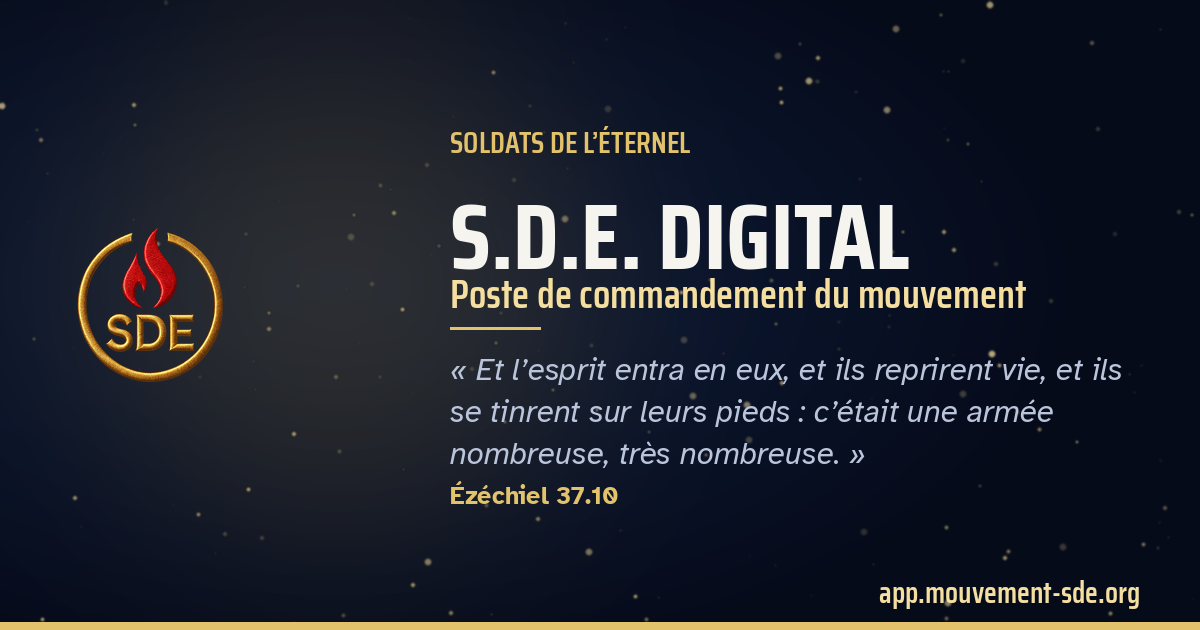
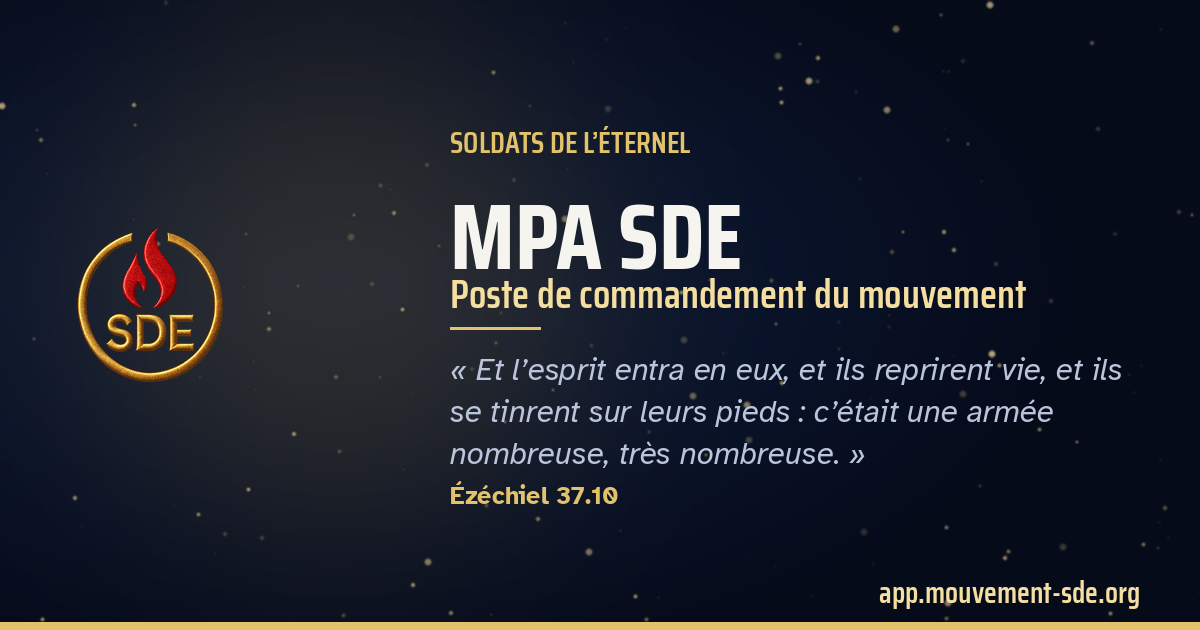
Nom de l'application : MPA SDE (au lieu de S.D.E. DIGITAL)
Titre, installation sur téléphone, vignette de partage, messages (codes d'activation, espace soldat), site vitrine et documentation.

Claude-Session: https://claude.ai/code/session_01QtEj7LbXvNQcxUdymFXxuX

Changed region(s): [[0.37, 0.3016, 0.7708, 0.4524]]

diff --git a/public/index.html b/public/index.html
@@ -2,7 +2,7 @@
 <html lang="fr">
 <meta charset="utf-8">
 <meta name="viewport" content="width=device-width,initial-scale=1,viewport-fit=cover">
-<title>S.D.E. DIGITAL</title>
+<title>MPA SDE</title>
 <link rel="manifest" href="/manifest.webmanifest">
 <meta name="theme-color" content="#0f1e3d">
 <meta name="description" content="Application de gestion du Mouvement Prophético-Apostolique Soldats de l’Éternel.">
@@ -13,7 +13,7 @@
 <meta property="og:site_name" content="Soldats de l’Éternel">
 <meta property="og:locale" content="fr_FR">
 <meta property="og:url" content="https://app.mouvement-sde.org/">
-<meta property="og:title" content="S.D.E. DIGITAL · Poste de commandement">
+<meta property="og:title" content="MPA SDE · Poste de commandement">
 <meta property="og:description" content="Agenda, annonces et espace soldat du Mouvement Prophético-Apostolique Soldats de l’Éternel.">
 <meta property="og:image" content="https://app.mouvement-sde.org/og-app.png">
 <meta property="og:image:width" content="1200">
@@ -22,7 +22,7 @@
 <meta name="twitter:card" content="summary_large_image">
 <meta name="robots" content="noindex">
 <style>.hdr-compte .hdr-ini{display:grid;place-items:center;width:28px;height:28px;border-radius:50%;background:#e2c26a;color:#1a1405;font-weight:700;font-size:.8rem} .gsi-w{min-height:48px;margin:14px 0} .banner-l{color:inherit;font-weight:700} .compte-h{margin-bottom:16px} .inp-sm{padding:4px 8px;min-height:36px;width:auto} .cnx-onglets{display:flex;gap:4px;padding:4px;border-radius:999px;background:var(--surface-2,rgba(127,127,127,.12));margin:0 0 16px} .cnx-o{flex:1;border:0;background:transparent;border-radius:999px;padding:10px 6px;font:inherit;font-weight:700;font-size:.9rem;color:inherit;cursor:pointer;min-height:44px} .cnx-o.on{background:#0f1e3d;color:#fff} .cnx-voir{margin:-4px 0 6px} .esp-compte{margin-bottom:12px} .esp-ou{margin:14px 0 8px} .cpt-fiche{margin-top:6px;max-width:100%} .cpt-row .row-main{min-width:0} .cpt-code{margin-bottom:14px} .med-outils{display:flex;flex-wrap:wrap;gap:8px;margin:0 0 14px} .med-outils .inp{flex:1 1 200px;width:auto} .med-grille{display:grid;gap:12px;grid-template-columns:repeat(auto-fill,minmax(min(100%,210px),1fr))} @media (max-width:600px){.med-grille{grid-template-columns:repeat(2,minmax(0,1fr));gap:10px} .med-t{font-size:14px} .med-type{font-size:10px}} .med-carte{display:flex;flex-direction:column;gap:4px;text-align:left;padding:0 0 12px;border:1px solid var(--line);border-radius:12px;background:var(--surface);color:var(--ink);font:inherit;cursor:pointer;overflow:hidden;min-width:0} .med-carte:hover{border-color:var(--line-strong);box-shadow:var(--shadow)} .med-carte .chip{align-self:flex-start;margin:4px 12px 0} .med-vis{position:relative;display:grid;place-items:center;aspect-ratio:16/10;background:var(--surface-2);overflow:hidden} .med-vis img{width:100%;height:100%;object-fit:cover} .med-ico{display:grid;place-items:center;gap:4px;color:var(--muted)} .med-ico svg{width:38px;height:38px} .med-ico b{font-size:12px;letter-spacing:.08em;text-transform:uppercase} .g-video .med-vis{background:#1b2f5b} .g-audio .med-vis{background:#3a2a5c} .g-pdf .med-vis{background:#fbe5e1} .g-word .med-vis{background:#e2ebfa} .g-powerpoint .med-vis{background:#fbe8dc} .g-excel .med-vis{background:#e0f1e6} .g-video .med-ico,.g-audio .med-ico{color:#e2c26a} .g-pdf .med-ico{color:#b42318} .g-word .med-ico{color:#1f5bb5} .g-powerpoint .med-ico{color:#c0562a} .g-excel .med-ico{color:#23704d} .med-play{position:absolute;inset:auto auto 10px 10px;width:38px;height:38px;border-radius:50%;display:grid;place-items:center;background:rgba(0,0,0,.6);color:#fff} .med-play svg{width:18px;height:18px} .med-type{position:absolute;top:8px;right:8px;font-size:11px;font-weight:700;letter-spacing:.06em;text-transform:uppercase;background:rgba(0,0,0,.6);color:#fff;border-radius:6px;padding:2px 7px} .med-t{padding:8px 12px 0;font-weight:700;line-height:1.3;display:-webkit-box;-webkit-line-clamp:2;-webkit-box-orient:vertical;overflow:hidden} .med-m{padding:0 12px;font-size:12.5px;color:var(--muted)} .med-lecteur{width:100%;max-height:70vh;border-radius:10px;background:#000} .med-photo{display:block;max-width:100%;max-height:72vh;margin:0 auto;border-radius:10px} .med-pdf{width:100%;height:70vh;border:1px solid var(--line);border-radius:10px;background:#fff} .med-audio{display:grid;gap:12px;justify-items:center;padding:12px;background:var(--surface-2);border-radius:12px} .med-audio img{max-width:240px;border-radius:10px} .med-audio audio{width:100%} .med-doc{display:flex;gap:16px;align-items:center;padding:16px;background:var(--surface-2);border-radius:12px} .med-doc .med-ico{width:84px;height:84px;border-radius:12px;background:var(--surface)} .med-desc{margin:12px 0 4px;white-space:normal} .med-nav{justify-content:center;align-items:center;margin-top:10px} .med-espace{margin-top:16px} .meter{height:8px;border-radius:999px;background:var(--track);overflow:hidden;margin-bottom:6px} .meter i{display:block;height:100%;background:var(--meter)} .med-depot{display:grid;justify-items:center;gap:6px;text-align:center;padding:22px 16px;border:2px dashed var(--line-strong);border-radius:12px;cursor:pointer;background:var(--surface-2)} .med-depot svg{width:30px;height:30px} .med-choix{display:grid;gap:8px;margin:12px 0} .med-ligne{display:flex;gap:10px;align-items:flex-start;padding:10px;border:1px solid var(--line);border-radius:10px} .med-ligne.ko{opacity:.7;border-color:var(--danger)} .med-ligne-i svg{width:22px;height:22px;color:var(--muted)} .med-ligne-c{display:grid;gap:4px;flex:1;min-width:0} .med-ligne-c .inp{width:100%} .med-ligne-c small{color:var(--muted);overflow-wrap:anywhere} .med-barre{height:6px;border-radius:999px;background:var(--track);overflow:hidden} .med-barre i{display:block;height:100%;width:0;background:var(--ok);transition:width .3s} .ko{color:var(--danger)}</style>
-<script>/* Pont S.D.E. DIGITAL : fournit à l'application la même interface que dans Claude
+<script>/* Pont MPA SDE : fournit à l'application la même interface que dans Claude
    (window.claude.use("db" | "user" | "downloads" | "assets")), branchée sur le serveur Cloudflare. */
 (function () {
   "use strict";
@@ -7206,10 +7206,10 @@ ${mbs.length ? `<h2>Annuaire des soldats (${mbs.length})</h2><input type="search
     const etape = (n, t) => `<li><span class="inst-n">${n}</span><span>${t}</span></li>`;
     const bloc = (titre, pas, actif) => `<section class="inst-b${actif ? " on" : ""}"><h3 class="h3">${titre}${actif ? ` <span class="chip ok">Votre appareil</span>` : ""}</h3><ol class="inst-l">${pas.map((p, i) => etape(i + 1, p)).join("")}</ol></section>`;
     const lien = lienApp();
-    return `<p class="hint" style="margin-top:0">S.D.E. DIGITAL s’installe comme une application : une icône sur l’écran d’accueil ouvre directement l’application, sans chercher le lien.</p>
-      <div class="inst-lien"><input class="inp" id="lien-app" readonly value="${esc(lien)}" aria-label="Lien de l’application"><button class="btn btn-sm btn-primary" type="button" data-act="copier" data-cible="lien-app">${I("i-copy")}Copier le lien</button><a class="btn btn-sm btn-ghost" href="${esc(lienWa("", "Voici le lien de l’application S.D.E. DIGITAL : " + lien))}" target="_blank" rel="noopener">${I("i-msg")}Partager</a></div>
+    return `<p class="hint" style="margin-top:0">MPA SDE s’installe comme une application : une icône sur l’écran d’accueil ouvre directement l’application, sans chercher le lien.</p>
+      <div class="inst-lien"><input class="inp" id="lien-app" readonly value="${esc(lien)}" aria-label="Lien de l’application"><button class="btn btn-sm btn-primary" type="button" data-act="copier" data-cible="lien-app">${I("i-copy")}Copier le lien</button><a class="btn btn-sm btn-ghost" href="${esc(lienWa("", "Voici le lien de l’application MPA SDE : " + lien))}" target="_blank" rel="noopener">${I("i-msg")}Partager</a></div>
       ${invite ? `<div class="btn-row" style="margin:10px 0">${btn("installer-pwa", "Installer maintenant", { ico: "i-down", cls: "btn-primary" })}</div>` : ""}
-      ${bloc("Android (Chrome)", ["Ouvrez le lien de l’application dans <b>Chrome</b>.", "Touchez le menu <b>⋮</b> en haut à droite.", "Choisissez <b>Installer l’application</b> (ou <b>Ajouter à l’écran d’accueil</b>), puis <b>Ajouter</b>.", "L’icône apparaît sur l’écran d’accueil : un appui suffit pour ouvrir S.D.E. DIGITAL."], android)}
+      ${bloc("Android (Chrome)", ["Ouvrez le lien de l’application dans <b>Chrome</b>.", "Touchez le menu <b>⋮</b> en haut à droite.", "Choisissez <b>Installer l’application</b> (ou <b>Ajouter à l’écran d’accueil</b>), puis <b>Ajouter</b>.", "L’icône apparaît sur l’écran d’accueil : un appui suffit pour ouvrir MPA SDE."], android)}
       ${bloc("iPhone et iPad (Safari)", ["Ouvrez le lien dans <b>Safari</b>.", "Touchez le bouton <b>Partager</b> (carré avec une flèche vers le haut).", "Faites défiler et choisissez <b>Sur l’écran d’accueil</b>, puis <b>Ajouter</b>."], ios)}
       ${bloc("Ordinateur (Chrome ou Edge)", ["Ouvrez le lien de l’application.", "Cliquez sur l’icône d’installation dans la barre d’adresse, ou menu <b>⋮</b> › <b>Caster, enregistrer et partager</b> › <b>Créer un raccourci</b> (cochez « Ouvrir dans une fenêtre »)."], !ios && !android)}
       <h3 class="h3" style="margin-top:16px">Sans réseau</h3>
@@ -7405,7 +7405,7 @@ ${mbs.length ? `<h2>Annuaire des soldats (${mbs.length})</h2><input type="search
     if (ok) { dernier.sheet = null; render(); }
   }
   function messageCode(m, code) {
-    return `Shalom ${prenomUsuel(m)} !\n\nVoici ton accès personnel à l’Espace soldat de S.D.E. DIGITAL : ta carte de membre, tes présences, tes cotisations, et un bouton pour déposer une requête de prière.\n\n1. Ouvre : ${lienApp()}\n2. Touche « Mon espace »\n3. Saisis ton code : ${code}\n\nGarde ce code pour toi : il ouvre ton espace.\n— ${cfg().nomCourt}`;
+    return `Shalom ${prenomUsuel(m)} !\n\nVoici ton accès personnel à l’Espace soldat de MPA SDE : ta carte de membre, tes présences, tes cotisations, et un bouton pour déposer une requête de prière.\n\n1. Ouvre : ${lienApp()}\n2. Touche « Mon espace »\n3. Saisis ton code : ${code}\n\nGarde ce code pour toi : il ouvre ton espace.\n— ${cfg().nomCourt}`;
   }
   /* Bloc dans la fiche du membre (direction) */
   function blocEspaceMembre(m) {
@@ -7458,7 +7458,7 @@ ${mbs.length ? `<h2>Annuaire des soldats (${mbs.length})</h2><input type="search
     return `<section class="card esp-entree"><div class="esp-entree-i" aria-hidden="true">${I("i-card")}</div><h2 class="h3">Ouvrir mon espace</h2><p class="hint">Saisissez le code personnel reçu du secrétariat. Votre espace s’ouvrira ensuite directement sur cet appareil.</p>
       <form class="form esp-form" id="f-esp" novalidate><label class="sr" for="esp-code">Code personnel</label><input class="inp esp-inp" id="esp-code" name="code" autocomplete="off" autocapitalize="characters" spellcheck="false" placeholder="K7PM-Q2XD" maxlength="14" inputmode="text"><button class="btn btn-primary" type="submit">${I("i-right")}Ouvrir</button></form>
       ${ESP.err ? `<p class="note danger" role="alert">${esc(ESP.err)}</p>` : ""}
-      ${tel ? `<p class="hint" style="margin-top:12px">Pas encore de code ? <a class="link" href="${esc(lienWa(tel, "Shalom ! Je souhaite recevoir mon code d’accès à l’Espace soldat S.D.E. DIGITAL. Nom et prénoms : "))}" target="_blank" rel="noopener">Le demander par WhatsApp</a></p>` : ""}</section>`;
+      ${tel ? `<p class="hint" style="margin-top:12px">Pas encore de code ? <a class="link" href="${esc(lienWa(tel, "Shalom ! Je souhaite recevoir mon code d’accès à l’Espace soldat MPA SDE. Nom et prénoms : "))}" target="_blank" rel="noopener">Le demander par WhatsApp</a></p>` : ""}</section>`;
   }
   const ETAT_PRES = { P: ["Présent", "ok"], R: ["En retard", "warn"], E: ["Excusé", "info"], A: ["Absent", "danger"] };
   function espaceSoldat(d) {
@@ -8318,7 +8318,7 @@ ${mbs.length ? `<h2>Annuaire des soldats (${mbs.length})</h2><input type="search
     const email = champ("cx-email", "Adresse e-mail", inp("cx-email", "email", CNX.email, 'type="email" autocomplete="email" inputmode="email" autocapitalize="off" spellcheck="false" required' + (m !== "inscription" ? " autofocus" : "")), { req: true });
     let corps;
     if (m === "connexion") corps = `${email}${champMdp("cx-mdp", "Mot de passe", "current-password")}${voirMdp}
-      <p class="hint">Mot de passe oublié ? Un responsable vous donne un code pour en choisir un nouveau, à saisir dans « J’ai un code ».${telContact() ? ` <a class="link" href="${esc(lienWa(telContact(), "Shalom ! J’ai oublié mon mot de passe S.D.E. DIGITAL. Mon adresse e-mail : "))}" target="_blank" rel="noopener">Le demander par WhatsApp</a>` : ""}</p>${pied("Se connecter")}`;
+      <p class="hint">Mot de passe oublié ? Un responsable vous donne un code pour en choisir un nouveau, à saisir dans « J’ai un code ».${telContact() ? ` <a class="link" href="${esc(lienWa(telContact(), "Shalom ! J’ai oublié mon mot de passe MPA SDE. Mon adresse e-mail : "))}" target="_blank" rel="noopener">Le demander par WhatsApp</a>` : ""}</p>${pied("Se connecter")}`;
     else if (m === "inscription") corps = `<p class="hint" style="margin-top:0">Votre compte s’ouvre aussitôt et vous recevez votre <b>matricule à 6 chiffres</b>, votre carte de membre et votre espace soldat.</p>
       <div class="f2">${champ("ci-prenoms", "Prénoms", inp("ci-prenoms", "prenoms", "", 'autocomplete="given-name" required autofocus maxlength="80"'), { req: true })}${champ("ci-nom", "Nom", inp("ci-nom", "nom", "", 'autocomplete="family-name" required maxlength="80"'), { req: true })}</div>
       ${champ("ci-tel", "Téléphone (WhatsApp)", inp("ci-tel", "telephone", "", 'type="tel" autocomplete="tel" inputmode="tel" maxlength="30" placeholder="07 00 00 00 00"'))}
@@ -8476,7 +8476,7 @@ ${mbs.length ? `<h2>Annuaire des soldats (${mbs.length})</h2><input type="search
     dernier.sheet = null; render();
   }
   function messageActivation(c) {
-    return `Shalom${c.nom ? " " + c.nom.split(/\s+/)[0] : ""} !\n\nTon accès à S.D.E. DIGITAL est prêt.\n1. Ouvre ${URL_APP_H}\n2. Touche le cadenas, puis « J’ai un code »\n3. Saisis ton adresse ${c.email}, le code ${c.code} et choisis ton mot de passe.\n\nLe code est valable 14 jours et ne sert qu’une fois.\n— ${cfg().nomCourt}`;
+    return `Shalom${c.nom ? " " + c.nom.split(/\s+/)[0] : ""} !\n\nTon accès à MPA SDE est prêt.\n1. Ouvre ${URL_APP_H}\n2. Touche le cadenas, puis « J’ai un code »\n3. Saisis ton adresse ${c.email}, le code ${c.code} et choisis ton mot de passe.\n\nLe code est valable 14 jours et ne sert qu’une fois.\n— ${cfg().nomCourt}`;
   }
   function ficheComptes() {
     const m = moiH();

diff --git a/src/worker.js b/src/worker.js
@@ -1,4 +1,4 @@
-/* S.D.E. DIGITAL — serveur Cloudflare (Worker)
+/* MPA SDE — serveur Cloudflare (Worker)
    Sert l'application, garde les données dans D1, les fichiers dans KV,
    et reconnaît chacun par son adresse e-mail et son mot de passe.
    Les règles d'accès reprennent exactement celles de la version Claude. */
@@ -490,7 +490,7 @@ async function apiIA(req, env, u) {
     model: rapide ? (env.IA_MODELE_RAPIDE || "claude-haiku-5-5") : (env.IA_MODELE || "claude-sonnet-5-5"),
     max_tokens: rapide ? 2000 : 4096,
     stream: true,
-    system: "Tu es Éliézer, l’assistant de l’application S.D.E. DIGITAL du Mouvement Prophético-Apostolique Soldats de l’Éternel. Suis les consignes données dans la conversation.",
+    system: "Tu es Éliézer, l’assistant de l’application MPA SDE du Mouvement Prophético-Apostolique Soldats de l’Éternel. Suis les consignes données dans la conversation.",
     messages,
     ...(outils.length ? { tools: outils } : {}),
   };
@@ -611,7 +611,7 @@ async function servirMedia(req, env, u, id) {
   if (!ID_MEDIA.test(id || "")) return new Response("Introuvable", { status: 404 });
   const m = await env.DB.prepare("SELECT * FROM medias WHERE id = ? AND fini = 1").bind(id).first();
   if (!m) return new Response("Ce média n’existe plus.", { status: 404, headers: { "content-type": "text/plain; charset=utf-8" } });
-  if (!mediaVisible(u, m)) return new Response("Connectez-vous à S.D.E. DIGITAL pour ouvrir ce média.", { status: 403, headers: { "content-type": "text/plain; charset=utf-8" } });
+  if (!mediaVisible(u, m)) return new Response("Connectez-vous à MPA SDE pour ouvrir ce média.", { status: 403, headers: { "content-type": "text/plain; charset=utf-8" } });
   let debut = 0, fin = m.taille - 1, partiel = false;
   const r = /^bytes=(\d*)-(\d*)$/.exec(req.headers.get("range") || "");
   if (r && (r[1] !== "" || r[2] !== "")) {
@@ -656,7 +656,7 @@ async function sauvegarder(env) {
   const comptes = (await env.DB.prepare("SELECT email, id, nom, role, cree, derniere, membreId, matricule FROM comptes").all()).results || [];
   const medias = (await env.DB.prepare("SELECT id, titre, description, categorie, genre, nom, mime, taille, stockage, visibilite, auteur, auteurNom, cree FROM medias WHERE fini = 1").all()).results || [];
   const jour = new Date().toISOString().slice(0, 10);
-  const corps = JSON.stringify({ version: 1, date: jour, application: "S.D.E. DIGITAL", docs: Object.fromEntries(docs.map((d) => [d.path, JSON.parse(d.data)])), comptes, medias });
+  const corps = JSON.stringify({ version: 1, date: jour, application: "MPA SDE", docs: Object.fromEntries(docs.map((d) => [d.path, JSON.parse(d.data)])), comptes, medias });
   await env.FICHIERS.put("sauvegarde:" + jour, corps, { expirationTtl: 35 * 86400, metadata: { type: "application/json", taille: corps.length, documents: docs.length, comptes: comptes.length, faite: Date.now() } });
   return { jour, documents: docs.length, taille: corps.length };
 }

diff --git a/app/m9_heberge.js b/app/m9_heberge.js
@@ -15,7 +15,7 @@
     const email = champ("cx-email", "Adresse e-mail", inp("cx-email", "email", CNX.email, 'type="email" autocomplete="email" inputmode="email" autocapitalize="off" spellcheck="false" required' + (m !== "inscription" ? " autofocus" : "")), { req: true });
     let corps;
     if (m === "connexion") corps = `${email}${champMdp("cx-mdp", "Mot de passe", "current-password")}${voirMdp}
-      <p class="hint">Mot de passe oublié ? Un responsable vous donne un code pour en choisir un nouveau, à saisir dans « J’ai un code ».${telContact() ? ` <a class="link" href="${esc(lienWa(telContact(), "Shalom ! J’ai oublié mon mot de passe S.D.E. DIGITAL. Mon adresse e-mail : "))}" target="_blank" rel="noopener">Le demander par WhatsApp</a>` : ""}</p>${pied("Se connecter")}`;
+      <p class="hint">Mot de passe oublié ? Un responsable vous donne un code pour en choisir un nouveau, à saisir dans « J’ai un code ».${telContact() ? ` <a class="link" href="${esc(lienWa(telContact(), "Shalom ! J’ai oublié mon mot de passe MPA SDE. Mon adresse e-mail : "))}" target="_blank" rel="noopener">Le demander par WhatsApp</a>` : ""}</p>${pied("Se connecter")}`;
     else if (m === "inscription") corps = `<p class="hint" style="margin-top:0">Votre compte s’ouvre aussitôt et vous recevez votre <b>matricule à 6 chiffres</b>, votre carte de membre et votre espace soldat.</p>
       <div class="f2">${champ("ci-prenoms", "Prénoms", inp("ci-prenoms", "prenoms", "", 'autocomplete="given-name" required autofocus maxlength="80"'), { req: true })}${champ("ci-nom", "Nom", inp("ci-nom", "nom", "", 'autocomplete="family-name" required maxlength="80"'), { req: true })}</div>
       ${champ("ci-tel", "Téléphone (WhatsApp)", inp("ci-tel", "telephone", "", 'type="tel" autocomplete="tel" inputmode="tel" maxlength="30" placeholder="07 00 00 00 00"'))}
@@ -173,7 +173,7 @@
     dernier.sheet = null; render();
   }
   function messageActivation(c) {
-    return `Shalom${c.nom ? " " + c.nom.split(/\s+/)[0] : ""} !\n\nTon accès à S.D.E. DIGITAL est prêt.\n1. Ouvre ${URL_APP_H}\n2. Touche le cadenas, puis « J’ai un code »\n3. Saisis ton adresse ${c.email}, le code ${c.code} et choisis ton mot de passe.\n\nLe code est valable 14 jours et ne sert qu’une fois.\n— ${cfg().nomCourt}`;
+    return `Shalom${c.nom ? " " + c.nom.split(/\s+/)[0] : ""} !\n\nTon accès à MPA SDE est prêt.\n1. Ouvre ${URL_APP_H}\n2. Touche le cadenas, puis « J’ai un code »\n3. Saisis ton adresse ${c.email}, le code ${c.code} et choisis ton mot de passe.\n\nLe code est valable 14 jours et ne sert qu’une fois.\n— ${cfg().nomCourt}`;
   }
   function ficheComptes() {
     const m = moiH();

diff --git a/public/vitrine/index.html b/public/vitrine/index.html
@@ -627,7 +627,7 @@ button.b-contour { background: transparent; }
       <div class="tete-section">
         <p class="surtitre">Espace membre</p>
         <h2 id="titre-membres">Votre espace soldat</h2>
-        <p class="chapo">Votre espace se trouve dans S.D.E. DIGITAL, l’application du mouvement. Créez votre compte avec votre adresse e-mail et un mot de passe : votre matricule à 6 chiffres vous est attribué aussitôt, sans attente.</p>
+        <p class="chapo">Votre espace se trouve dans MPA SDE, l’application du mouvement. Créez votre compte avec votre adresse e-mail et un mot de passe : votre matricule à 6 chiffres vous est attribué aussitôt, sans attente.</p>
       </div>
       <div class="acces">
         <div class="carte-acces">
@@ -806,7 +806,7 @@ button.b-contour { background: transparent; }
   const RDV = { infire: INFIRE };
   document.addEventListener("click", (ev) => { const b = ev.target.closest("[data-ics]"); if (b && RDV[b.dataset.ics]) ics(RDV[b.dataset.ics]); });
 
-  /* Agenda public, lu en direct dans S.D.E. DIGITAL */
+  /* Agenda public, lu en direct dans MPA SDE */
   const MOIS = ["janv.", "févr.", "mars", "avr.", "mai", "juin", "juil.", "août", "sept.", "oct.", "nov.", "déc."];
   const JOURS = ["dimanche", "lundi", "mardi", "mercredi", "jeudi", "vendredi", "samedi"];
   const echap = (t) => String(t || "").replace(/[&<>"']/g, (c) => ({ "&": "&amp;", "<": "&lt;", ">": "&gt;", '"': "&quot;", "'": "&#39;" })[c]);

diff --git a/public/sw.js b/public/sw.js
@@ -1,5 +1,5 @@
 /* Service worker : garde l'application sur l'appareil pour l'ouvrir même sans réseau. */
-const CACHE = "sde-em7ik5md";
+const CACHE = "sde-rfq6syy4";
 const FICHIERS = ["/", "/manifest.webmanifest", "/icone-192.png", "/icone-512.png"];
 self.addEventListener("install", (e) => { e.waitUntil(caches.open(CACHE).then((c) => c.addAll(FICHIERS)).then(() => self.skipWaiting())); });
 self.addEventListener("activate", (e) => { e.waitUntil(caches.keys().then((ks) => Promise.all(ks.filter((k) => k !== CACHE).map((k) => caches.delete(k)))).then(() => self.clients.claim())); });

diff --git a/app/pont.js b/app/pont.js
@@ -1,4 +1,4 @@
-/* Pont S.D.E. DIGITAL : fournit à l'application la même interface que dans Claude
+/* Pont MPA SDE : fournit à l'application la même interface que dans Claude
    (window.claude.use("db" | "user" | "downloads" | "assets")), branchée sur le serveur Cloudflare. */
 (function () {
   "use strict";

diff --git a/app/build_heberge.py b/app/build_heberge.py
@@ -1,4 +1,4 @@
-"""Construit la version hébergée (Cloudflare) de S.D.E. DIGITAL à partir de la version Claude.
+"""Construit la version hébergée (Cloudflare) de MPA SDE à partir de la version Claude.
 
 Usage : python3 app/build_heberge.py <chemin de sde-gestion.html>
 Produit public/index.html, public/sw.js, public/manifest.webmanifest et les icônes.
@@ -23,6 +23,8 @@ def rep(a, b, n=1):
     js = js.replace(a, b)
 
 js = js.replace(ANCIEN, URL_APP)
+# Nom de l’application : MPA SDE
+js = js.replace("S.D.E. DIGITAL", "MPA SDE")
 rep("  /* ════════════════════════ Démarrage", (APP / "m9_heberge.js").read_text() + (APP / "m10_mediatheque.js").read_text() + "\n  /* ════════════════════════ Démarrage")
 # Médiathèque : nouvel onglet après l’Arsenal
 rep('    { id: "arsenal", ico: "i-shelf", court: "Arsenal", long: "Arsenal", desc: "Médias et bibliothèque" },\n', '    { id: "arsenal", ico: "i-shelf", court: "Arsenal", long: "Arsenal", desc: "Médias et bibliothèque" },\n    { id: "mediatheque", ico: "i-play", court: "Médias", long: "Médiathèque", desc: "Vidéos, audios, photos et documents" },\n')
@@ -46,6 +48,7 @@ js = js.replace("<b>Ajouter à l’écran d’accueil</b> (ou <b>Installer l’a
 
 pont = (APP / "pont.js").read_text()
 html = src[:debut] + js + src[fin:]
+html = html.replace("<title>S.D.E. DIGITAL</title>", "<title>MPA SDE</title>")
 tete = f'''<link rel="manifest" href="/manifest.webmanifest">
 <meta name="theme-color" content="#0f1e3d">
 <meta name="description" content="Application de gestion du Mouvement Prophético-Apostolique Soldats de l’Éternel.">
@@ -56,7 +59,7 @@ tete = f'''<link rel="manifest" href="/manifest.webmanifest">
 <meta property="og:site_name" content="Soldats de l’Éternel">
 <meta property="og:locale" content="fr_FR">
 <meta property="og:url" content="https://app.mouvement-sde.org/">
-<meta property="og:title" content="S.D.E. DIGITAL · Poste de commandement">
+<meta property="og:title" content="MPA SDE · Poste de commandement">
 <meta property="og:description" content="Agenda, annonces et espace soldat du Mouvement Prophético-Apostolique Soldats de l’Éternel.">
 <meta property="og:image" content="https://app.mouvement-sde.org/og-app.png">
 <meta property="og:image:width" content="1200">
@@ -85,7 +88,7 @@ for t in (192, 512):
     fond.alpha_composite(l, ((t - l.width) // 2, (t - l.height) // 2))
     fond.convert("RGB").save(PUB / f"icone-{t}.png", optimize=True)
 (PUB / "manifest.webmanifest").write_text(json.dumps({
-    "name": "S.D.E. DIGITAL", "short_name": "S.D.E.", "lang": "fr", "start_url": "/", "scope": "/", "display": "standalone",
+    "name": "MPA SDE", "short_name": "MPA SDE", "lang": "fr", "start_url": "/", "scope": "/", "display": "standalone",
     "background_color": "#0f1e3d", "theme_color": "#0f1e3d",
     "description": "Gestion du Mouvement Prophético-Apostolique Soldats de l’Éternel",
     "icons": [{"src": "/icone-192.png", "sizes": "192x192", "type": "image/png"}, {"src": "/icone-512.png", "sizes": "512x512", "type": "image/png"}, {"src": "/icone-512.png", "sizes": "512x512", "type": "image/png", "purpose": "maskable"}],

diff --git a/app/vignettes.py b/app/vignettes.py
@@ -94,5 +94,5 @@ def vignette(nom, sur_titre, titre, sous_titre, verset, ref, pied):
 
 vignette("og-sde.png", "MOUVEMENT PROPHÉTICO-APOSTOLIQUE", "SOLDATS DE L’ÉTERNEL", "Réveiller · Restaurer · Former · Équiper · Envoyer",
          "Esprit, viens des quatre vents, souffle sur ces morts, et qu’ils revivent !", "Ézéchiel 37.9", "mouvement-sde.org")
-vignette("og-app.png", "SOLDATS DE L’ÉTERNEL", "S.D.E. DIGITAL", "Poste de commandement du mouvement",
+vignette("og-app.png", "SOLDATS DE L’ÉTERNEL", "MPA SDE", "Poste de commandement du mouvement",
          "Et l’esprit entra en eux, et ils reprirent vie, et ils se tinrent sur leurs pieds : c’était une armée nombreuse, très nombreuse.", "Ézéchiel 37.10", "app.mouvement-sde.org")

diff --git a/app/transfert.py b/app/transfert.py
@@ -12,5 +12,5 @@ for f in sorted(racine.rglob("*.json")):
         d = json.loads(f.read_text())
         if isinstance(d, dict):
             docs[rel] = d
-sortie.write_text(json.dumps({"application": "S.D.E. DIGITAL", "format": 1, "docs": docs}, ensure_ascii=False))
+sortie.write_text(json.dumps({"application": "MPA SDE", "format": 1, "docs": docs}, ensure_ascii=False))
 print(len(docs), "documents →", sortie)

diff --git a/README.md b/README.md
@@ -1,4 +1,4 @@
-# S.D.E. DIGITAL
+# MPA SDE
 
 Application de gestion du **Mouvement Prophético-Apostolique Soldats de l’Éternel** (S.D.E.), Abidjan.
 Texte fondateur : Ézéchiel 37.
